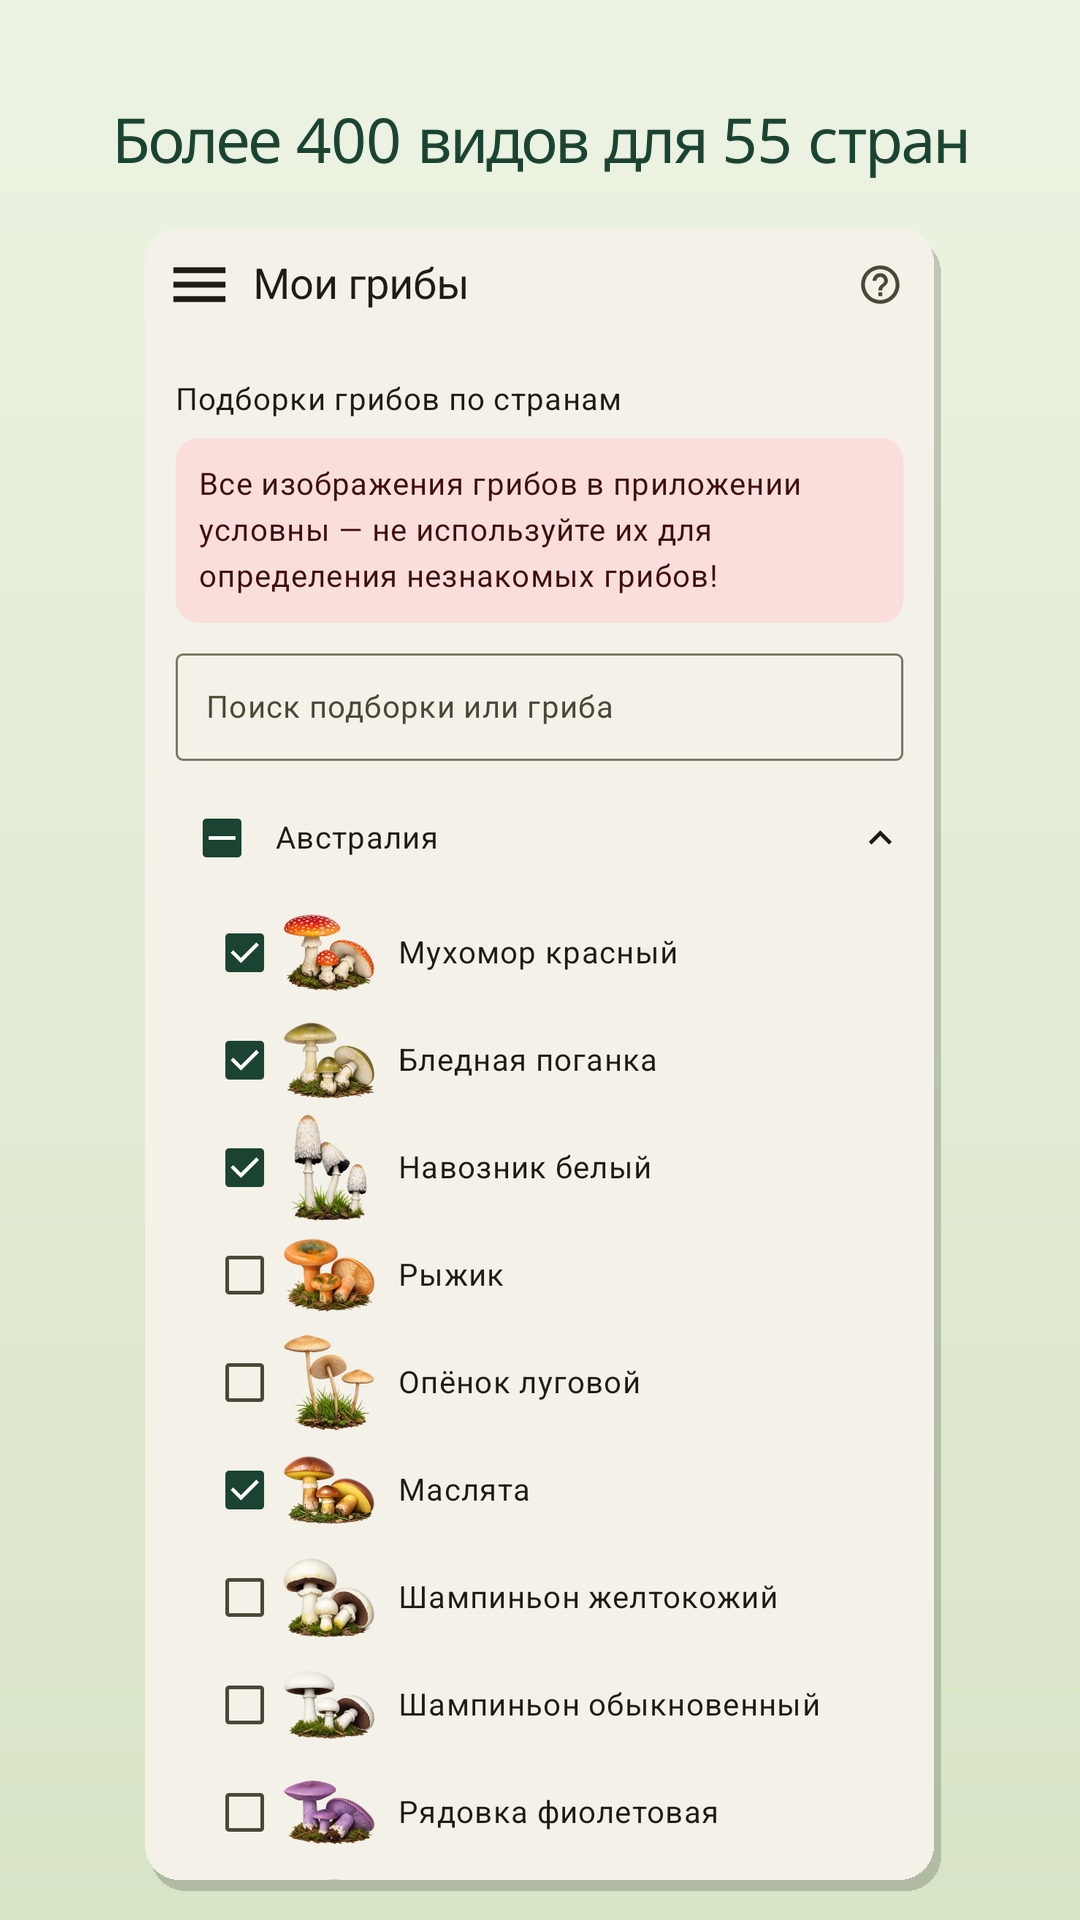
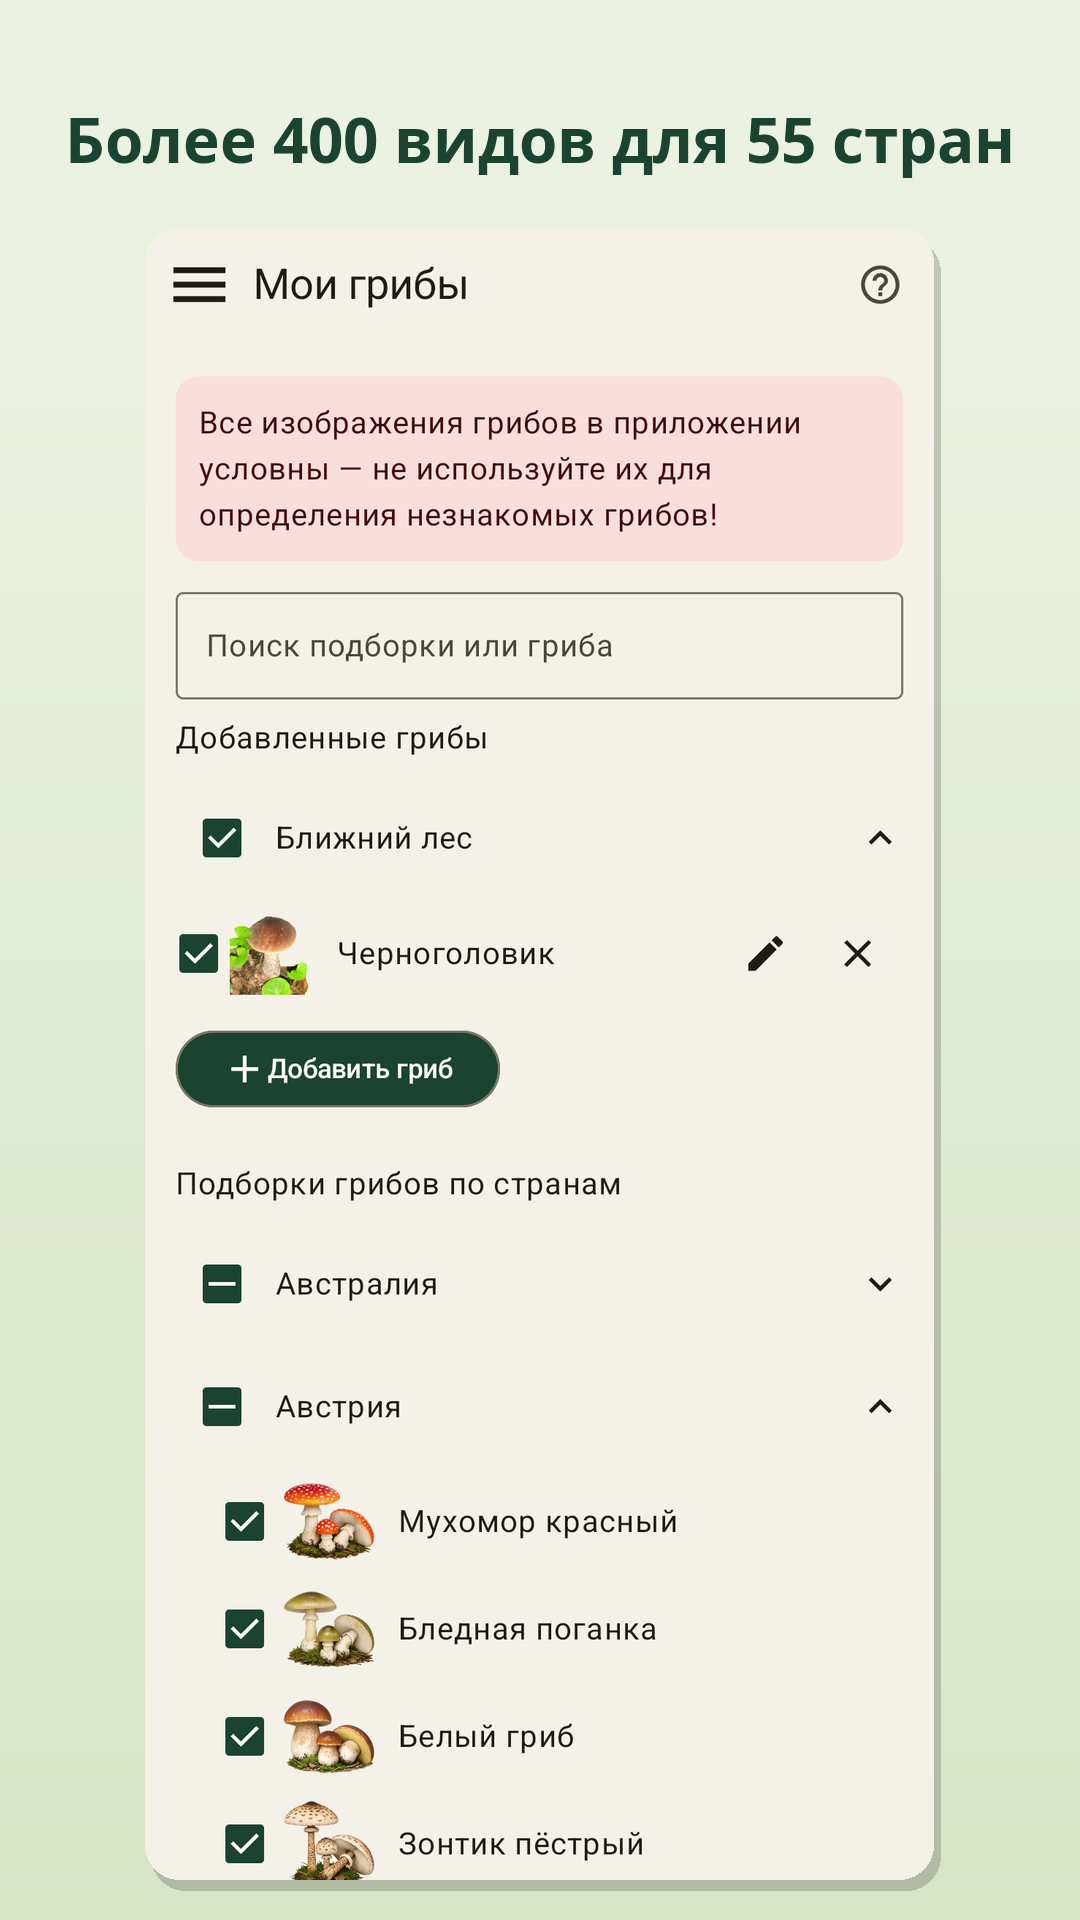
Скриншот «Мои грибы» переснят под новый порядок разделов
Единственный кадр, устаревший после перестановки: на прежнем заголовок
«Подборки грибов по странам» стоял сверху, а раздела добавленных грибов не
было вовсе. Новый показывает нынешний порядок — предупреждение, поиск,
добавленные грибы, подборки — и заодно то, чего на прежнем комплекте не было
видно нигде: свой вид с собственной фотографией.

Остальные семь кадров оставлены как есть, и это разобрано, а не пропущено.
«Запись»: добавился сектор направления взгляда, но он появляется не сразу
после открытия экрана, так что кадр без него — воспроизводимое состояние
приложения. «Подготовка»: участок можно выбрать вдали от себя, и тогда точки
местоположения в кадре нет — прежний кадр показывает ровно это.

Четыре готовых файла (две локали × два магазина) плюс два сырых кадра
эмулятора. Размеры проверены: Play не длиннее 2:1, App Store ровно 1320×2868.

В README дописано, каким шрифтом набраны подписи и где его взять: вариативного
Noto Sans из первого прогона на машине не осталось, а подставить другую
гарнитуру нельзя — кадр выпадет из комплекта. Там же способ сверить совпадение
глазами.

diff --git a/docs/store/play/README.md b/docs/store/play/README.md
@@ -23,6 +23,28 @@
 (1320×2868) для `docs/store/appstore/`. Шрифт подписей в репозитории не лежит, путь к нему
 задаётся `--font` или `LESHY_CAPTION_FONT`.
 
+**Какой именно шрифт — и где его взять.** Подписи набраны **Noto Sans Bold**. Первый прогон
+(12.09.2026) использовал вариативный `NotoSans[wdth,wght].ttf` из рабочего каталога владельца;
+на машине его больше нет, и `find` по всему домашнему каталогу не находит ни одного базового
+Noto Sans — только письменности из кеша layoutlib (`NotoSansLepcha` и подобные) и Roboto. Брать
+что попало нельзя: кадр с подписью в другой гарнитуре сразу выпадает из комплекта, это видно на
+странице магазина.
+
+Статический Bold подходит — скрипт это предусматривает (`set_variation_by_axes` обёрнут в
+`try`). Проверенный способ достать (пересъёмка 24.09.2026):
+
+```bash
+curl -L -o NotoSans-Bold.ttf \
+  https://raw.githubusercontent.com/googlefonts/noto-fonts/main/hinted/ttf/NotoSans/NotoSans-Bold.ttf
+```
+
+На этой машине DNS не резолвится (память `project-no-dns-use-doh`), поэтому адрес сначала
+резолвится через `https://1.1.1.1/dns-query`, а `curl` зовётся с `--resolve`.
+
+Совпадение гарнитуры **проверяется глазами, а не на веру**: обрезать полосу с подписью у нового
+кадра и у любого старого и положить рядом. Расхождение в гарнитуре видно сразу по форме `o`,
+`e`, `s`.
+
 ## Как обновить тексты
 
 Правится `listings.json`, дальше:
